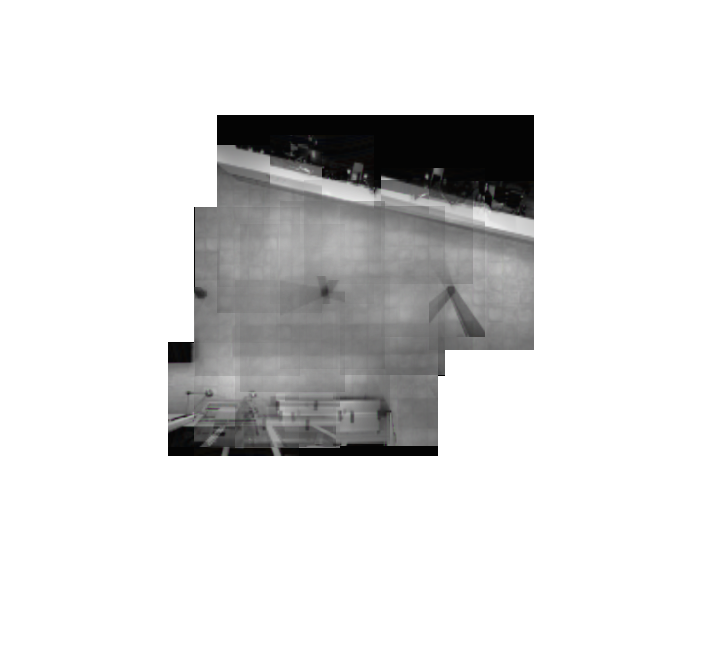
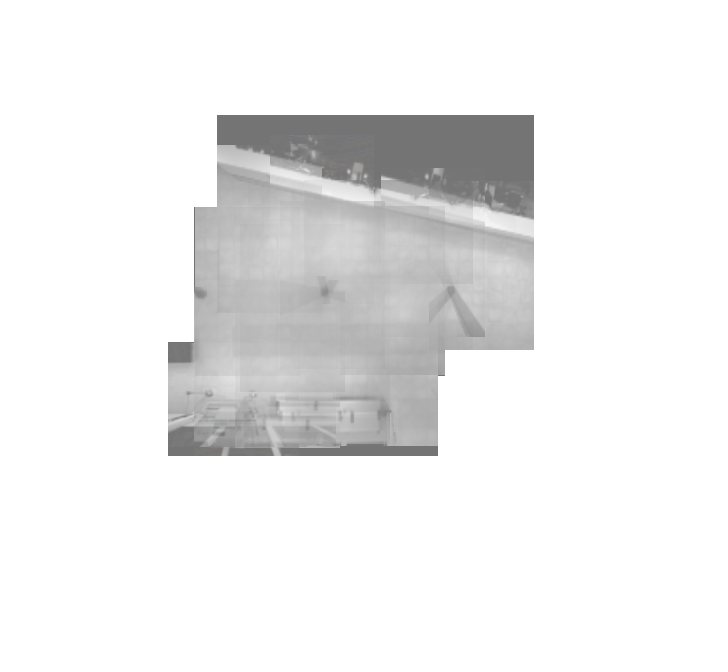
Background transparency improved
Former-commit-id: 1f92412c3ad6d499c7e0c92148398870c5c3b6b5

Changed region(s): [[0.2115, 0.1562, 0.7555, 0.6875]]

diff --git a/Proj/src/main/webapp/resources/js/Canvas/Canvas.js b/Proj/src/main/webapp/resources/js/Canvas/Canvas.js
@@ -28,27 +28,26 @@ function drawDot(xPos, yPos, color) {
 
 // Draws dot on canvas
 function drawHeat(xPos, yPos) {
-    var dotSize = 3;
+    var dotSize = 4;
     context.beginPath();
     context.arc((xPos + centerX), (-yPos + centerY), dotSize + 4, 0, 2 * Math.PI);
-
     context.save();
     context.shadowColor = '#FFFF00';
-    context.shadowBlur = 40;
+    context.shadowBlur = 45;
     context.fillStyle = 'rgba(250, 0, 0, 0.02)';
     context.fill();
     context.restore();
-
 }
 
 // Draws rectangle on canvas
-function drawRectangle(xPos, yPos, width, height, degree, color) {
+function drawRectangle(xPos, yPos, width, height, degree, color, opacity) {
     context.save();
     context.translate(xPos + centerX, -yPos + centerY);
     context.rotate(degree * Math.PI / 180);
     context.beginPath();
     context.rect(-width / 2, -height / 2, width, height);
     context.fillStyle = color;
+    context.globalAlpha = opacity;
     context.fill();
     context.restore();
 }
@@ -56,7 +55,7 @@ function drawRectangle(xPos, yPos, width, height, degree, color) {
 function drawScene(active, img) {
     if (active) {
         showImage(img, 530, -330, 1400, 1400);
-        drawRectangle(520, -25, 600, 50, 14, '#0099FF');
+        drawRectangle(555, -10, 650, 30, 14, '#0099FF', 0.6);
     }
 }
 
@@ -76,7 +75,6 @@ function drawAlert(text) {
 function showImage(img, xPos, yPos, width, height) {
     var imageObj = img;
     context.save();
-    context.globalAlpha = 0.5;
     context.drawImage(imageObj, (xPos + centerX) - width / 2, (-yPos + centerY) - height / 2, width, height);
 }
 

diff --git a/Proj/src/main/webapp/resources/js/Canvas/Graph.js b/Proj/src/main/webapp/resources/js/Canvas/Graph.js
@@ -33,10 +33,10 @@ function personData(index) {
 
     for (i = 0; i < 1; i++) {
         balken[i] = {
-            fillColor: "rgba(220,220,220,0.5)",
-            strokeColor: "rgba(220,220,220,0.8)",
-            highlightFill: "rgba(220,220,220,0.75)",
-            highlightStroke: "rgba(220,220,220,1)",
+            fillColor: "rgba(0,153,255,0.75)",
+            strokeColor: "rgba(0,153,255,1)",
+            highlightFill: "rgba(0,153,255,0.50)",
+            highlightStroke: "rgba(0,153,255,0.75)",
             data: data
         };
     }

diff --git a/Proj/src/main/webapp/resources/js/Canvas/Home.js b/Proj/src/main/webapp/resources/js/Canvas/Home.js
@@ -6,7 +6,7 @@ Author     : Stefan */
 window.onload = function showLogo() {
     var xOffset  = 700;
     var yOffset  = -300;
-    drawRectangle(0 + xOffset, 200 + yOffset, 190, 50, 45, '#FF0000');
+    drawRectangle(0 + xOffset, 200 + yOffset, 190, 50, 45, '#FF0000' );
     drawRectangle(0 + xOffset, 200 + yOffset, 190, 50, 135, '#FF0000');
     drawRectangle(0 + xOffset, 0 + yOffset, 190, 50, 45, '#FF0000');
     drawRectangle(0 + xOffset, 0 + yOffset, 190, 50, 135, '#FF0000');
